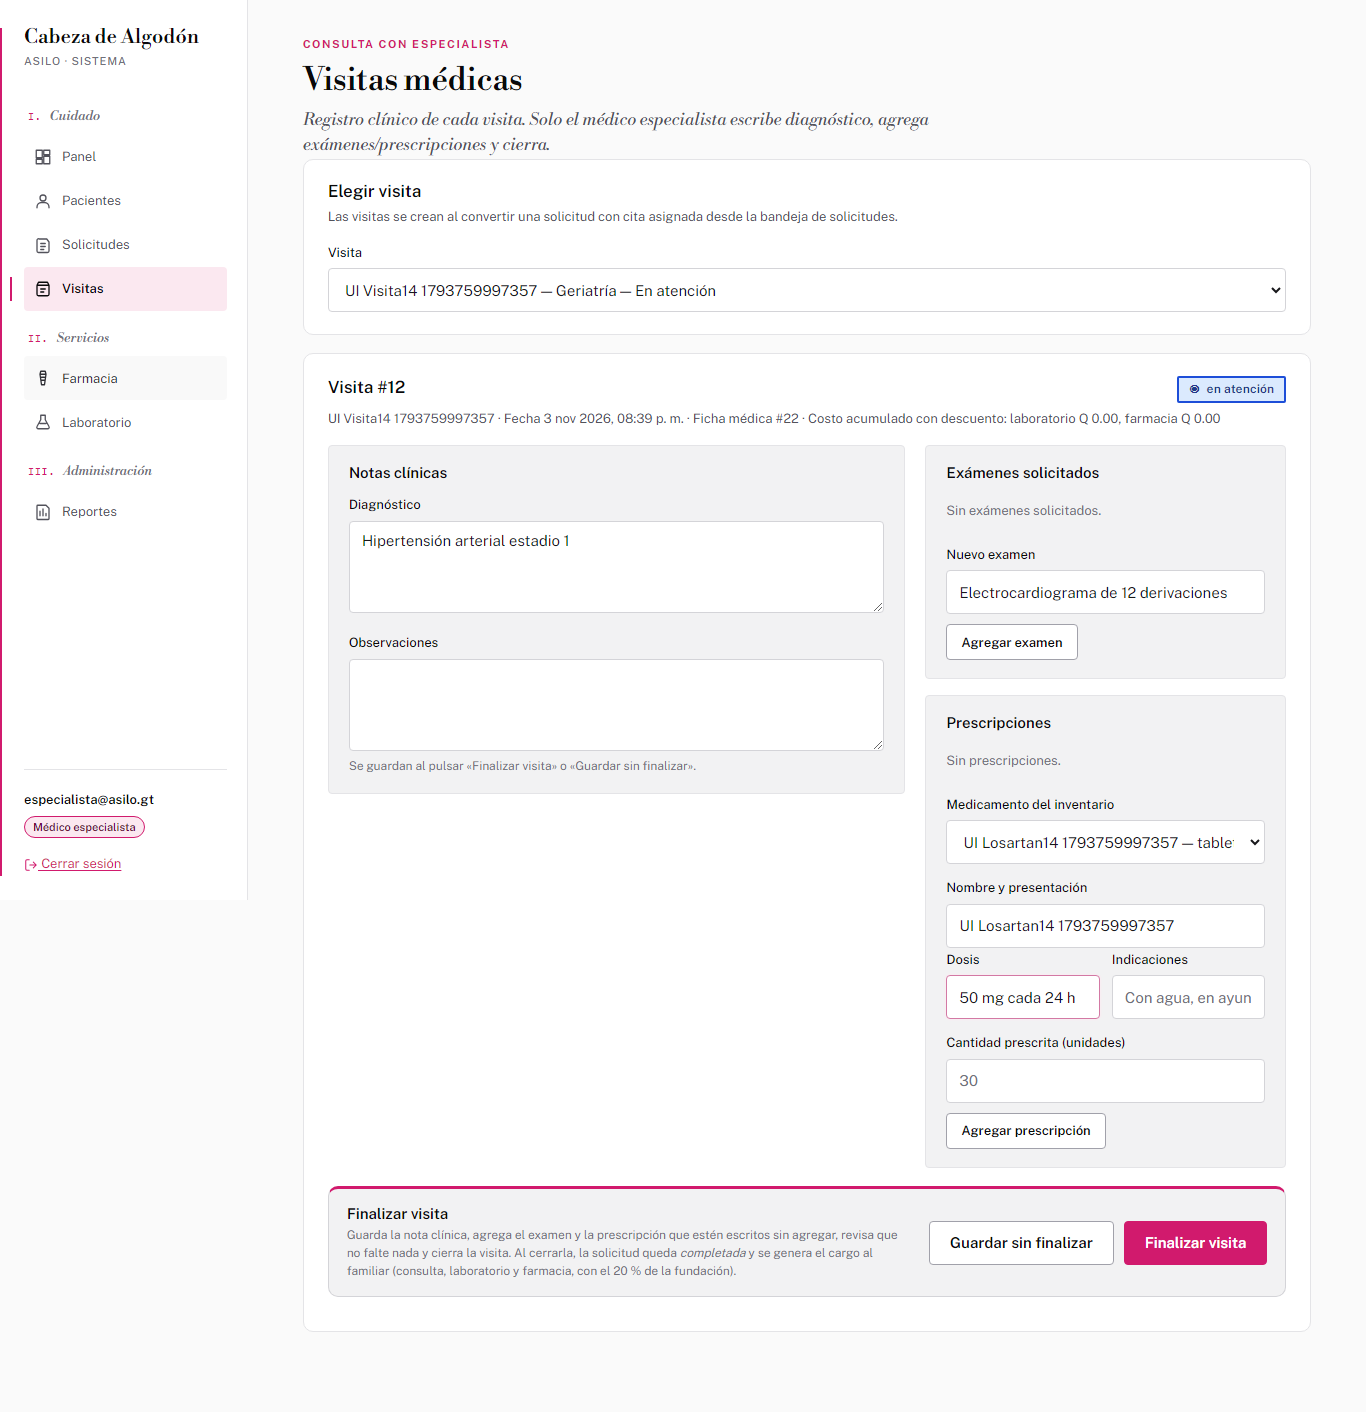
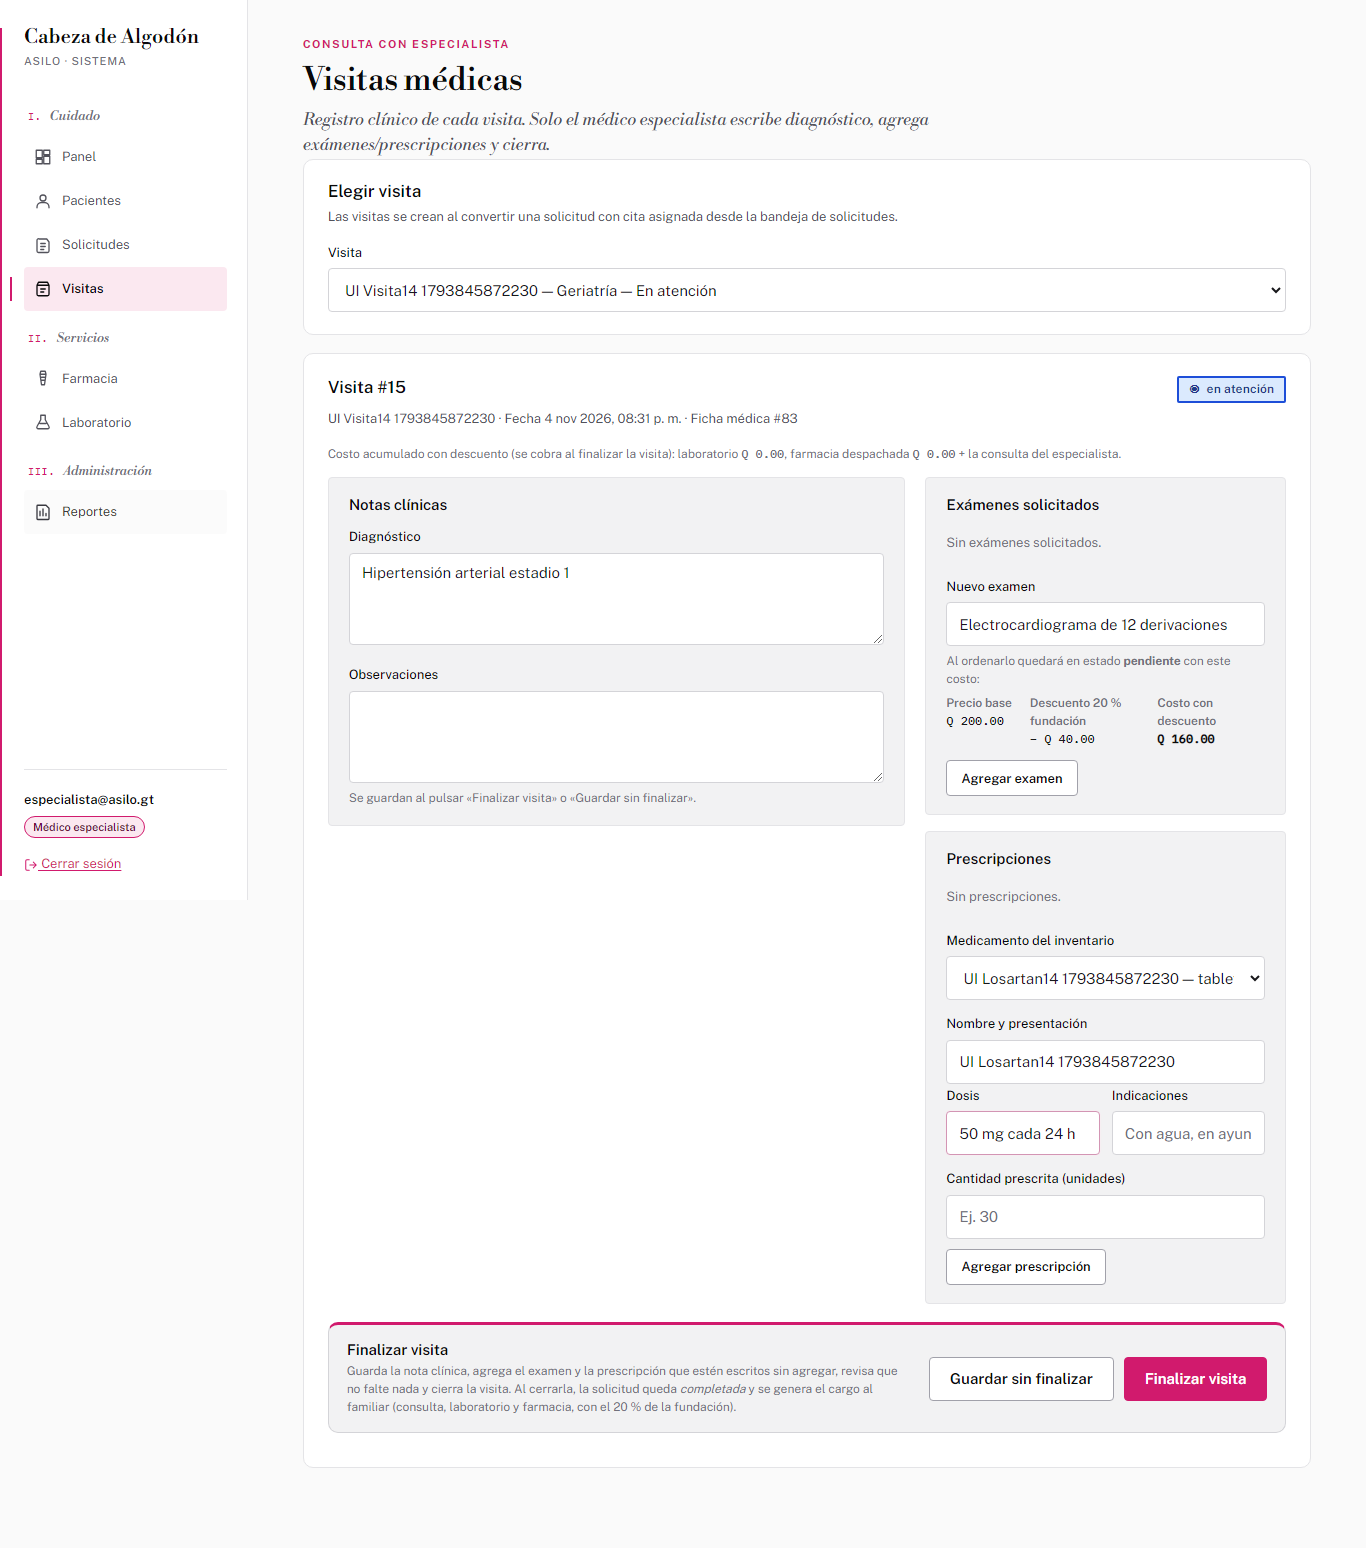
Caso 14 (SQA): la cantidad vacia ya no parece escrita
En la revision final de las capturas, el campo "Cantidad prescrita"
vacio y resaltado con "Falta la cantidad" mostraba el ejemplo "30" como
placeholder, que en la captura parece un valor escrito: el SQA podia
leerlo como un rechazo injustificado. Ahora dice "Ej. 30".
Prueba: npm run test:ui 14 (capturas despues regeneradas).

diff --git a/frontend/index.html b/frontend/index.html
@@ -422,7 +422,7 @@
                 <div><label for="rxIndicaciones">Indicaciones</label><input id="rxIndicaciones" placeholder="Con agua, en ayunas"></div>
               </div>
               <label for="rxCantidad">Cantidad prescrita (unidades) <span class="falta-aviso hidden" id="faltaRxCantidad">✕ Falta la cantidad</span></label>
-              <input type="number" id="rxCantidad" min="1" step="1" inputmode="numeric" placeholder="30">
+              <input type="number" id="rxCantidad" min="1" step="1" inputmode="numeric" placeholder="Ej. 30">
               <button class="btn ghost small" id="btnAgregarPrescripcion" style="margin-top:10px">Agregar prescripción</button>
               <div id="msgRx" role="status" aria-live="polite"></div>
             </div>
